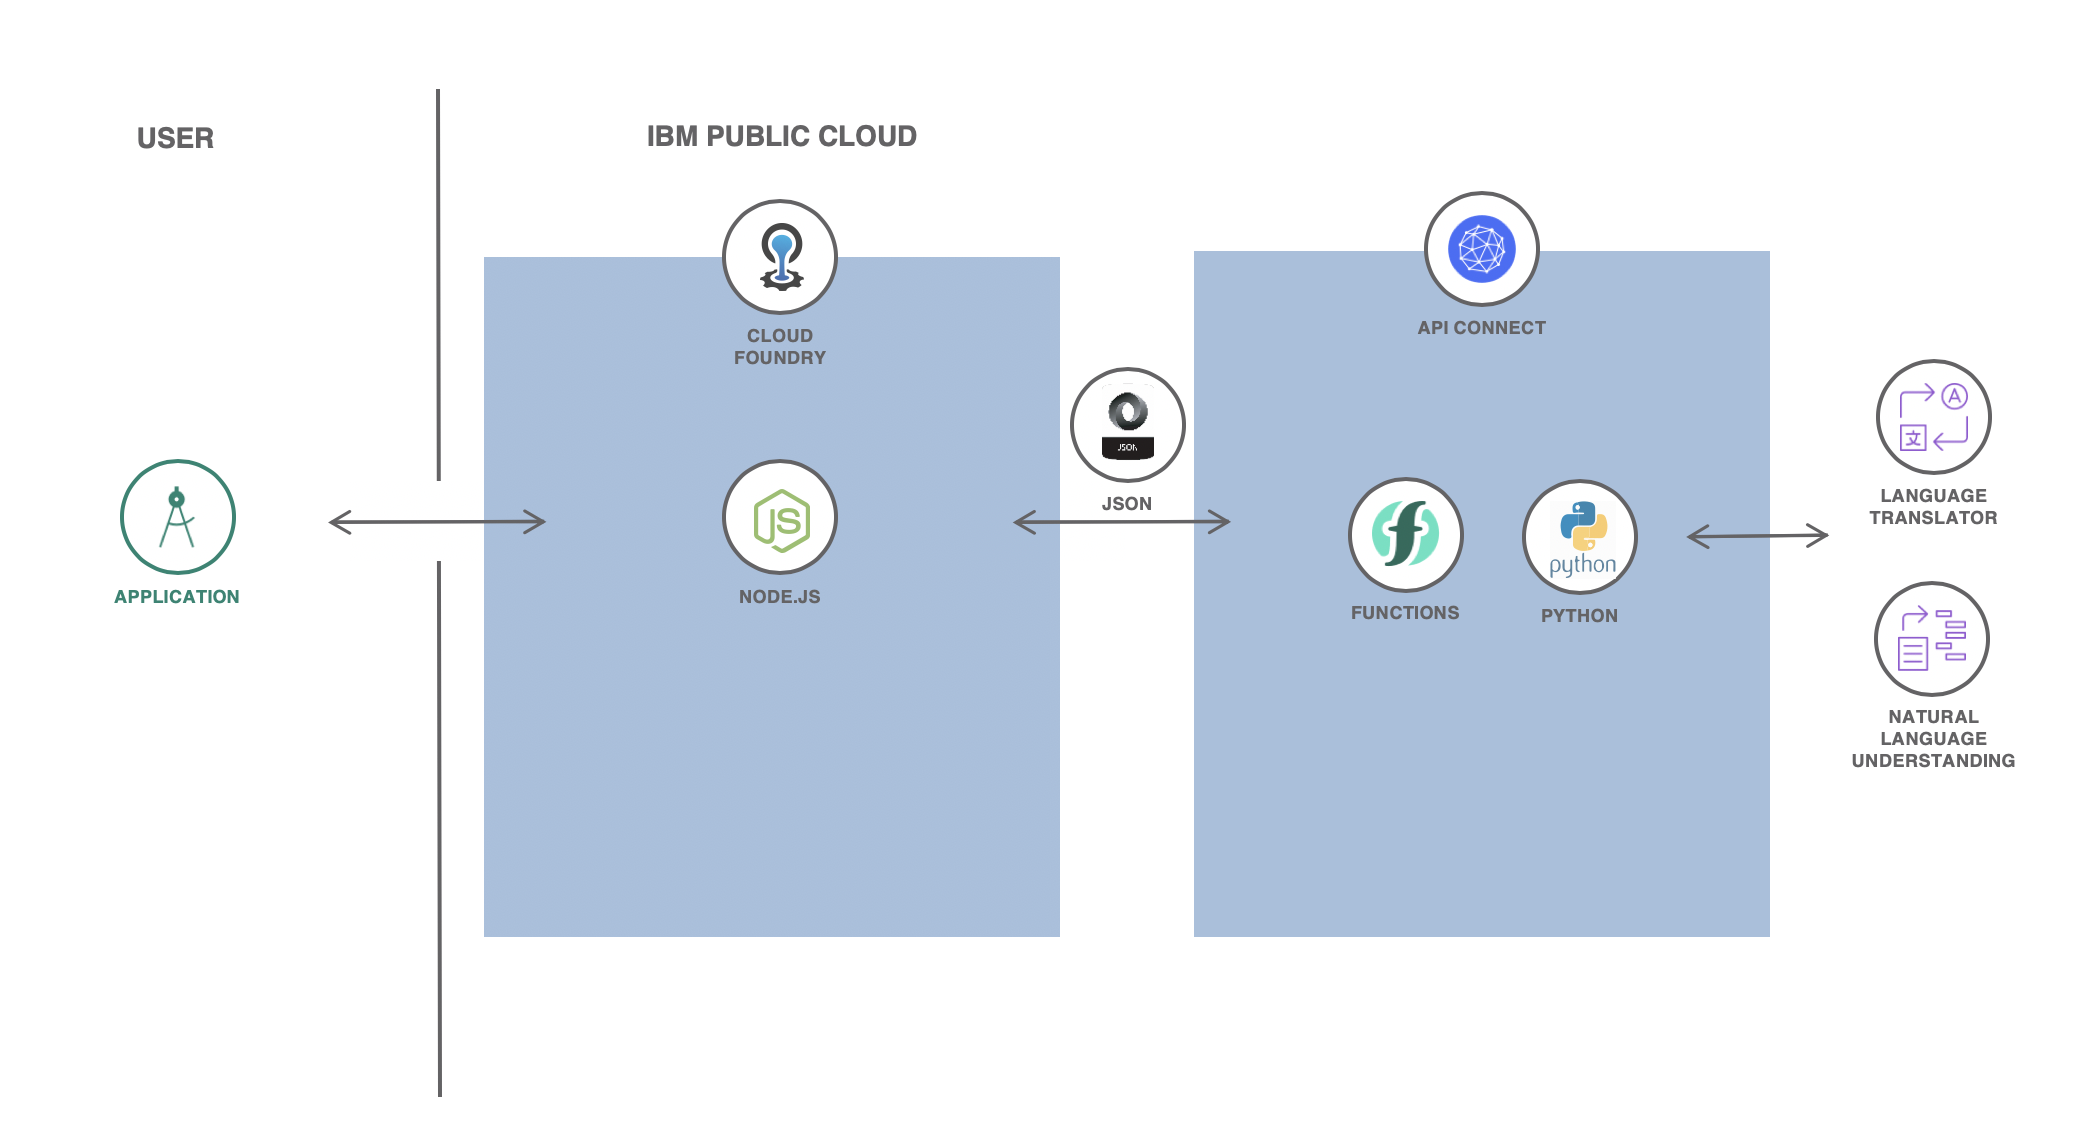
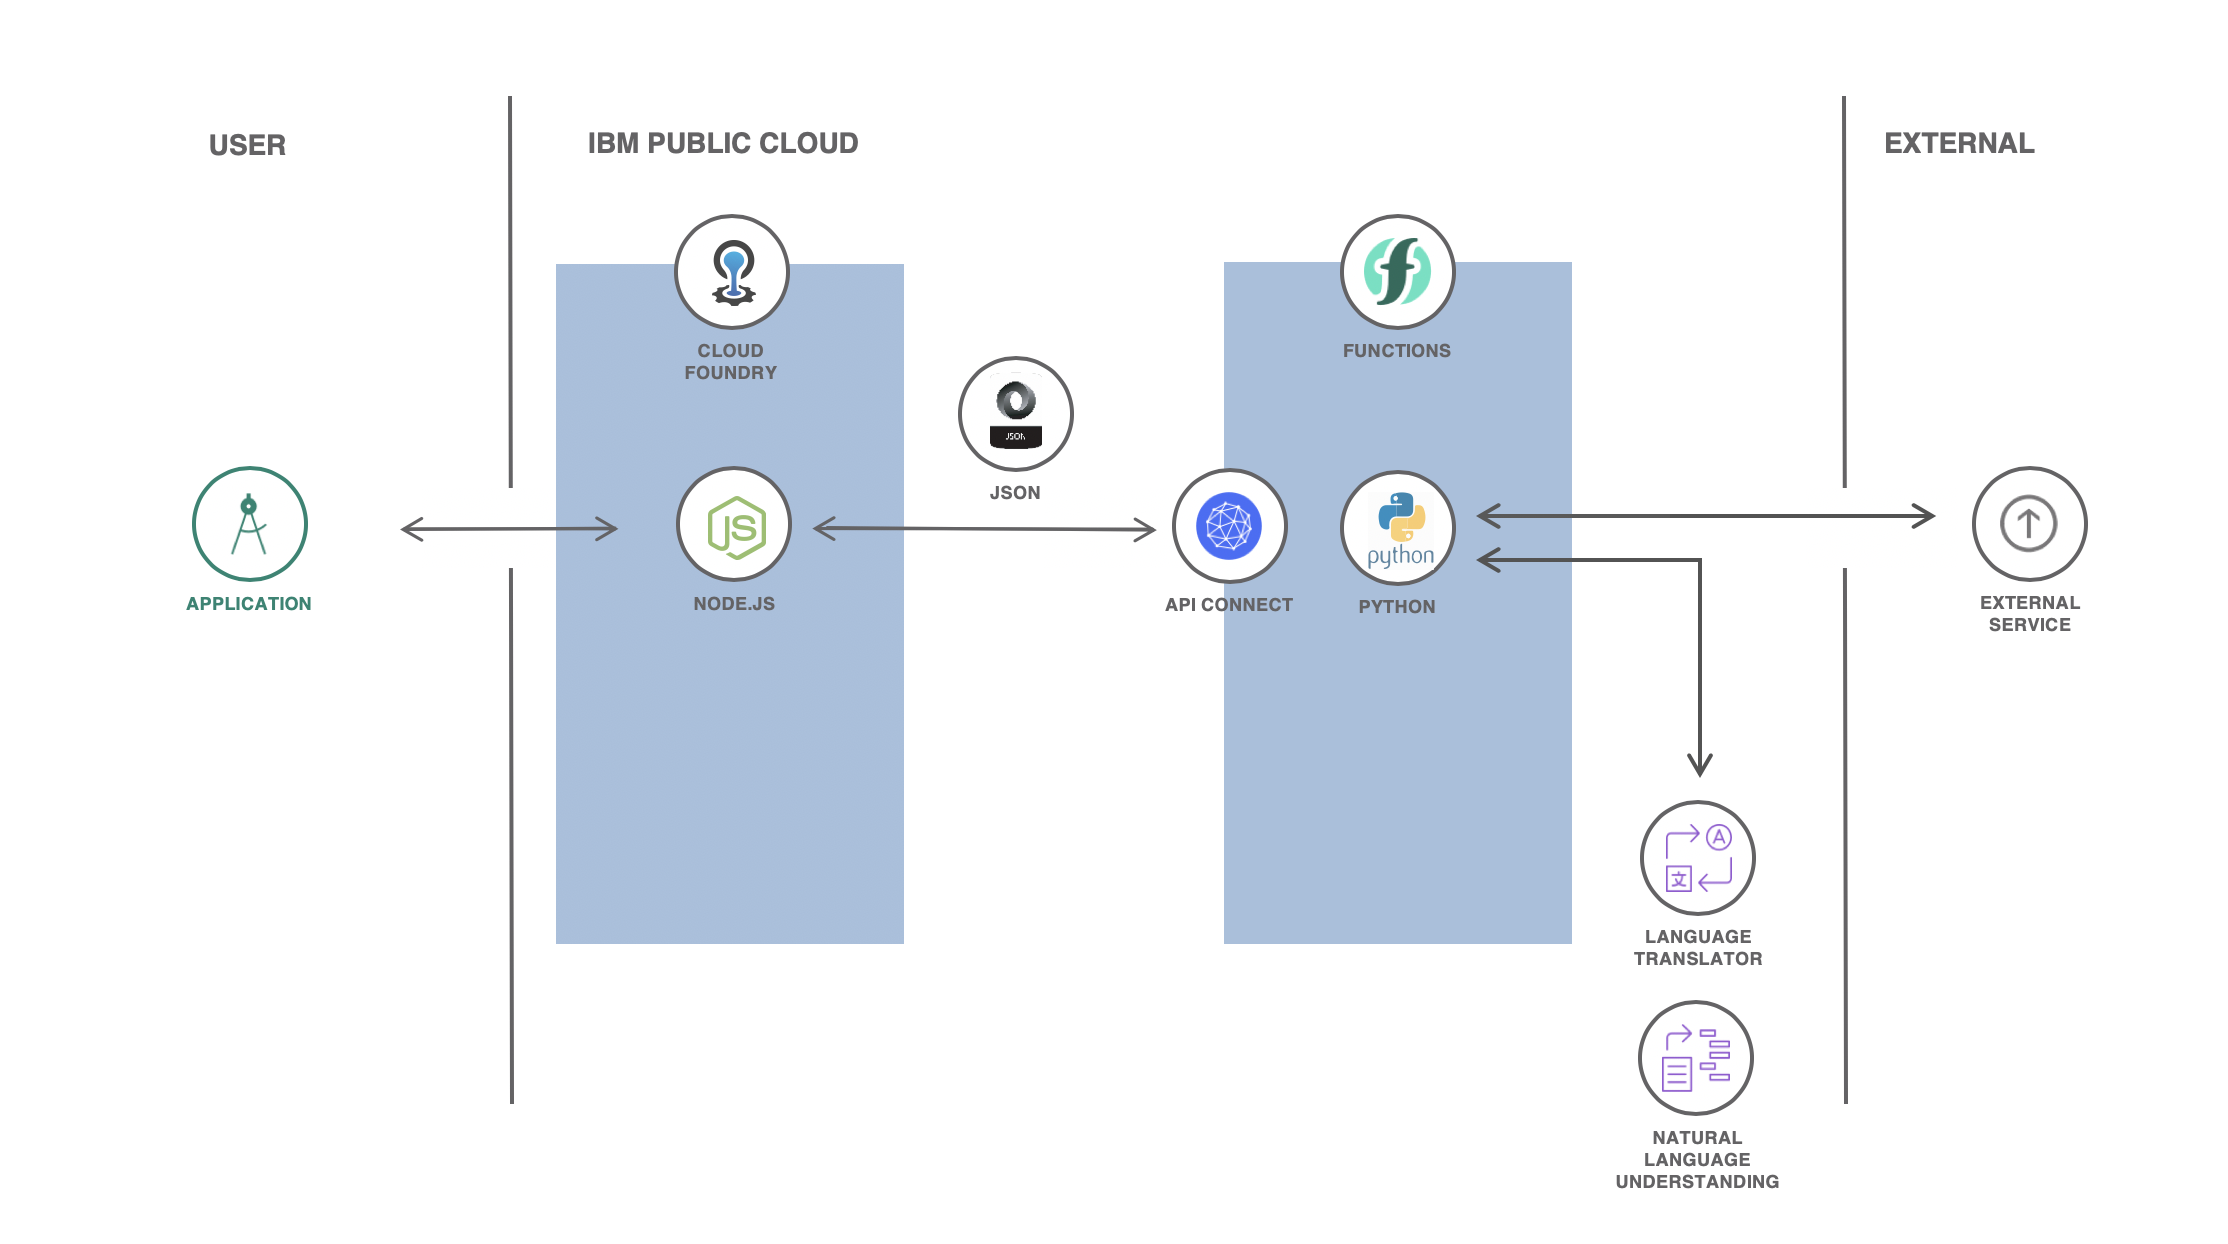
Flow changes

diff --git a/client/public/index.html b/client/public/index.html
@@ -8,8 +8,10 @@
   <meta name="theme-color" content="#3e3e3e" />
   <meta name="description" content="Analyze any song's lyrics with Watson natural language processing in real time!" />
   <meta property="og:description"
-    content="Analyze any song's lyrics with Watson natural language processing in real time!" />
+    content="Quickly analyze song lyrics with natural language processing using Watson!" />
   <meta property="og:title" content="Lyra" />
+  <meta property="og:image" content="../src/images/watson.jpg" />
+  <meta property="og:url" content="https://lyra.mybluemix.net/" />
   <link rel="apple-touch-icon" href="logo192.png" />
   <!--
       manifest.json provides metadata used when your web app is installed on a

diff --git a/doc/source/actions/analyzeLyrics.py b/doc/source/actions/analyzeLyrics.py
@@ -1,4 +1,3 @@
-import json
 from watson_developer_cloud import NaturalLanguageUnderstandingV1, LanguageTranslatorV3
 from watson_developer_cloud.natural_language_understanding_v1 import Features, EmotionOptions, SentimentOptions
 
@@ -37,7 +36,7 @@ def main(dict):
         # Instantiating NLU
         natural_language_understanding = NaturalLanguageUnderstandingV1(
             version='2019-07-12',
-            # Type your NLU service APIKEY below
+            # Insert your NLU service APIKEY below
             iam_apikey='<apikey>',
             url='https://gateway.watsonplatform.net/natural-language-understanding/api'
         )

diff --git a/README.md b/README.md
@@ -6,7 +6,9 @@
 
 # Lyra, the song analyzer
 
-Lyra makes use of the Watson Natural Language Understanding (NLU) API to analyze song lyrics. The backend calls a serverless function sequence that scrapes song lyrics from https://www.letras.com using Beautiful Soup and then calls NLU to analyze the song's emotion and sentiment. The analysis is supported in any language!
+## Intro
+
+Lyra makes use of the Watson Natural Language Understanding (NLU) API to analyze song lyrics. The Node.js backend calls a serverless function sequence via API Connect. The sequence scrapes song lyrics from https://www.letras.com using Python with Beautiful Soup and then calls NLU to analyze the song's emotion and sentiment. If the song is not in English, the sequence also calls the Language Translator API to translate the lyrics to English. The service is supported in any language!
 
 Check the app out on https://lyra.mybluemix.net.
 
@@ -22,17 +24,17 @@ Check the app out on https://lyra.mybluemix.net.
 
 ## Creating the Serverless sequence and actions via IBM Cloud Functions GUI
 
-Being logged in on IBM Cloud, open [IBM Cloud Functions](https://cloud.ibm.com/functions/actions). For every file in the [actions folder](./doc/source/actions), create an action and paste the code inside. In the `analyzeLyrics.py` action, remember to type your service apikeys:
+Being logged in on IBM Cloud, open [IBM Cloud Functions](https://cloud.ibm.com/functions/actions). For every file in the [actions folder](./doc/source/actions), create an action and paste the code inside. In the `analyzeLyrics.py` action, remember to type in your service apikeys:
 - Line 15: Language Translator apikey
 - Line 40: Natural Language Understanding apikey
 
-If you don't have the apikeys, simply create a free instance of [Language Translator](https://cloud.ibm.com/catalog/services/language-translator) and [Natural Language Understanding](https://cloud.ibm.com/catalog/services/natural-language-understanding) to get them. Then, create a sequence for scraping the lyrics. It should include the three actions, in the following order:
+If you don't have the apikeys, simply create a free instance of [Language Translator](https://cloud.ibm.com/catalog/services/language-translator) and [Natural Language Understanding](https://cloud.ibm.com/catalog/services/natural-language-understanding) to get them. Then, create a sequence for scraping and analyzing the lyrics. It should include the three actions, in the following order:
 1. songSearcher.py
 2. lyricScraper.py
 3. analyzeLyrics.py
 
 ## Making your Python API Public with API Connect
-Go to the [Functions API management section](https://cloud.ibm.com/functions/apimanagement) and create a Managed API. Name it whatever you like. Go to your newly created Managed API and go to the section `Definition`. There, create an operation, give it a path, set the method to `POST` and select your sequence. After creating the operation, remember to scroll down the screen and click on `Save` to save your changes. Now, go back to `Summary` and copy the route on the screen to your API. Insert this route in the [server file](./server/server.js), line 16 and add a `/<your path name>` to the end of the route. Your server should now be able to connect to your API operation.
+Go to the [Functions API management section](https://cloud.ibm.com/functions/apimanagement) and create a Managed API. Name it whatever you like. Go to your newly created Managed API and go to the section `Definition`. There, create an operation, give it a path, set the method to `POST` and select your sequence. After creating the operation, remember to scroll down the screen and click on `Save` to save your changes. Now, go back to `Summary` and copy the route on the screen to your API. Insert this route in the [server file](./server/server.js), line 16 and add `/<your path name>` to the end of the route. Your server should now be able to connect to your API operation.
 
 ## Running the app locally
 Simpy clone the repo, put your API route in the server file (step above) and run the following commands from the `/server` directory:
@@ -46,9 +48,9 @@ npm run local
 ```
 
 ## Deploying the app to the cloud
-NOTE: You must have the [IBM Cloud Command Line Interface](https://cloud.ibm.com/docs/cli?topic=cloud-cli-getting-started) installed in your machine to follow the next steps.
+NOTE: You must have the [IBM Cloud Command Line Interface](https://cloud.ibm.com/docs/cli?topic=cloud-cli-getting-started) installed on your machine to follow this step.
 
-After [setting up](#Creating-the-Serverless-sequence-and-actions-via-IBM-Cloud-Functions-GUI), installing dependencies and making sure the app is working, go to the `/server` directory, change your app and route names on the [manifest file](./server/manifest.yml) (lines 3 and 8) and run the following commands:
+After [setting up](#Creating-the-Serverless-sequence-and-actions-via-IBM-Cloud-Functions-GUI), installing dependencies and making sure the app is working, go to the `/server` directory, change your app and route names on the [manifest file](./server/manifest.yml) (lines 3 and 8) and run the following commands from `/server`:
 
 ```
 # Logs into the IBM Cloud
